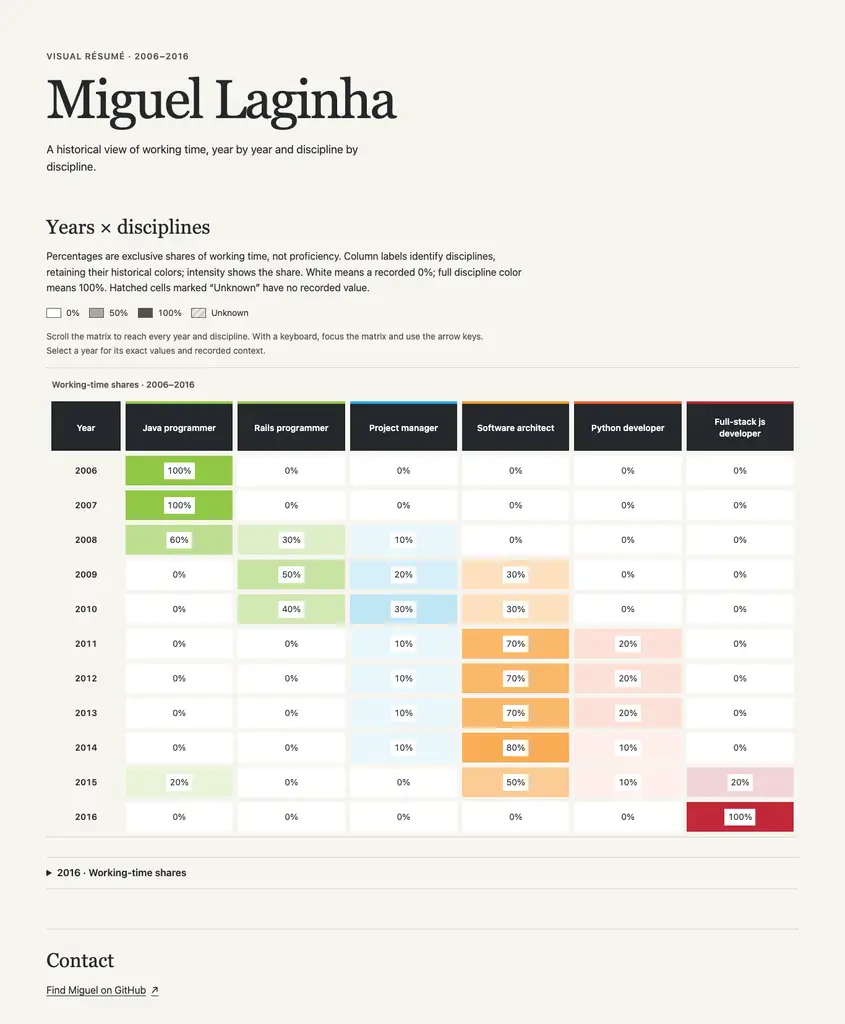
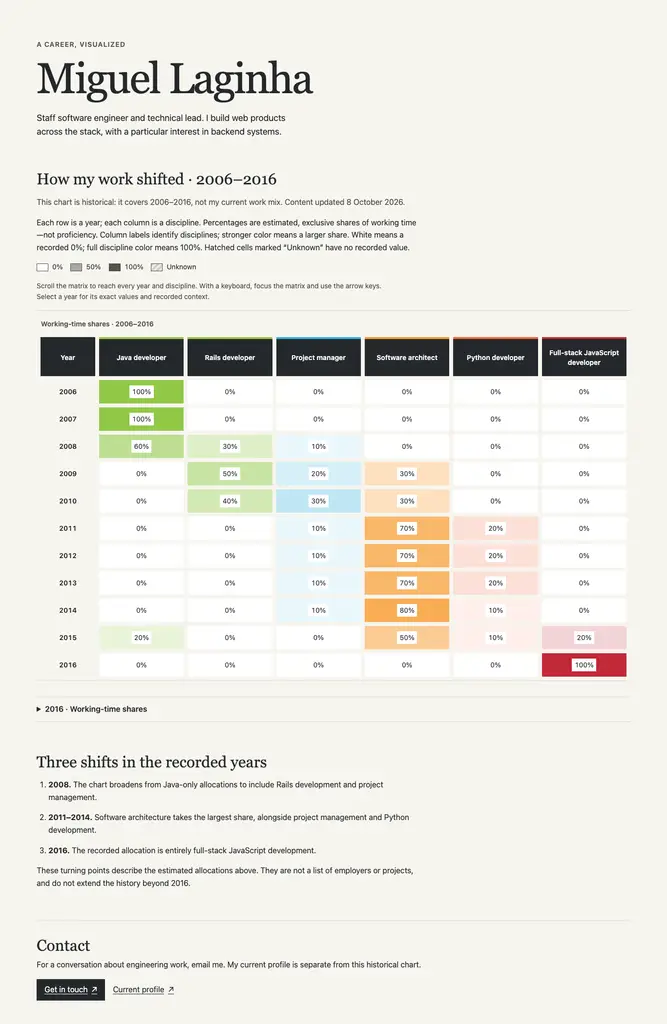
Refresh owner-approved copy and historical career narrative
Refs #4

Changed region(s): [[0.06, 0.0312, 0.9595, 0.875], [0.03, 0.9062, 0.6297, 1.0], [0.8096, 0.75, 0.9595, 0.8125]]

diff --git a/app/index.html b/app/index.html
@@ -3,25 +3,26 @@
     <head>
         <meta charset="utf-8">
         <meta name="viewport" content="width=device-width, initial-scale=1">
-        <title>Miguel Laginha — Resume visualized</title>
-        <meta name="description" content="Miguel Laginha’s visual résumé of recorded working-time shares across disciplines, 2006–2016.">
+        <title>Miguel Laginha — A career, visualized</title>
+        <meta name="description" content="Miguel Laginha, staff software engineer and technical lead. Explore estimated working-time shares across disciplines, 2006–2016.">
         <link rel="stylesheet" href="./styles/main.css">
         <script type="module" src="./scripts/main.ts"></script>
     </head>
     <body>
         <main>
             <header class="intro">
-                <p class="eyebrow">Visual résumé · 2006–2016</p>
+                <p class="eyebrow">A career, visualized</p>
                 <h1>Miguel Laginha</h1>
-                <p class="intro-text">A historical view of working time, year by year and discipline by discipline.</p>
+                <p class="intro-text">Staff software engineer and technical lead. I build web products across the stack, with a particular interest in backend systems.</p>
             </header>
 
             <section aria-labelledby="matrix-heading">
-                <h2 id="matrix-heading">Years × disciplines</h2>
+                <h2 id="matrix-heading">How my work shifted · 2006–2016</h2>
+                <p class="coverage-note">This chart is historical: it covers 2006–2016, not my current work mix. Content updated <time datetime="2026-10-08">8 October 2026</time>.</p>
                 <div class="legend">
                     <p id="legend">
-                        Percentages are exclusive shares of working time, not proficiency.
-                        Column labels identify disciplines, retaining their historical colors; intensity shows the share.
+                        Each row is a year; each column is a discipline. Percentages are estimated, exclusive shares of working time—not proficiency.
+                        Column labels identify disciplines; stronger color means a larger share.
                         White means a recorded 0%; full discipline color means 100%.
                         Hatched cells marked “Unknown” have no recorded value.
                     </p>
@@ -47,9 +48,23 @@
                 </details>
             </section>
 
+            <section class="turning-points" aria-labelledby="turning-points-heading">
+                <h2 id="turning-points-heading">Three shifts in the recorded years</h2>
+                <ol>
+                    <li><strong>2008.</strong> The chart broadens from Java-only allocations to include Rails development and project management.</li>
+                    <li><strong>2011–2014.</strong> Software architecture takes the largest share, alongside project management and Python development.</li>
+                    <li><strong>2016.</strong> The recorded allocation is entirely full-stack JavaScript development.</li>
+                </ol>
+                <p>These turning points describe the estimated allocations above. They are not a list of employers or projects, and do not extend the history beyond 2016.</p>
+            </section>
+
             <footer class="contact" aria-labelledby="contact-heading">
                 <h2 id="contact-heading">Contact</h2>
-                <a href="https://github.com/brecke">Find Miguel on GitHub <span aria-hidden="true">↗</span></a>
+                <p>For a conversation about engineering work, email me. My current profile is separate from this historical chart.</p>
+                <p class="contact-actions">
+                    <a class="primary-contact" href="mailto:me@miguellaginha.com">Get in touch <span aria-hidden="true">↗</span></a>
+                    <a href="https://miguellaginha.com/">Current profile <span aria-hidden="true">↗</span></a>
+                </p>
             </footer>
         </main>
     </body>

diff --git a/app/scripts/main.ts b/app/scripts/main.ts
@@ -94,7 +94,7 @@ function syncExpanded() {
 function selectYear(record: (typeof careerData.years)[number]) {
     selectedYear = record.year;
     detailHeading.textContent = `${record.year} · Working-time shares`;
-    detailContext.textContent = `Record status: ${record.complete ? 'complete' : 'partial'}. Percentages are exclusive shares of working time, not proficiency. Recorded coverage: ${careerData.coverage.startYear}–${careerData.coverage.endYear}.`;
+    detailContext.textContent = `Record status: ${record.complete ? 'complete' : 'partial'}. Percentages are estimated, exclusive shares of working time, not proficiency. Historical coverage: ${careerData.coverage.startYear}–${careerData.coverage.endYear}.`;
     detailValues.replaceChildren();
     for (const discipline of careerData.disciplines) {
         const pair = document.createElement('div');

diff --git a/app/styles/main.css b/app/styles/main.css
@@ -77,6 +77,37 @@ p {
     font-size: 1.125rem;
 }
 
+.coverage-note {
+    max-width: 78ch;
+    color: var(--muted);
+}
+
+.turning-points {
+    max-width: 78ch;
+    margin-top: var(--space-4);
+}
+
+.turning-points ol {
+    padding-inline-start: 1.5rem;
+}
+
+.turning-points li {
+    margin-bottom: var(--space-2);
+}
+
+.contact-actions {
+    display: flex;
+    flex-wrap: wrap;
+    align-items: center;
+    gap: var(--space-2);
+}
+
+.primary-contact {
+    padding-inline: var(--space-2);
+    color: #fff;
+    background: var(--header);
+}
+
 .legend {
     margin-bottom: var(--space-2);
 }

diff --git a/README.md b/README.md
@@ -1,6 +1,6 @@
 # Resume visualized
 
-A visual résumé that maps years against work disciplines. Color intensity shows exclusive shares of working time—not proficiency—making changes in a career visible at a glance.
+A visual résumé that maps years against work disciplines. Color intensity shows **estimated, exclusive shares of working time—not proficiency**. Miguel Laginha's current introduction and contact are separate from the historical **2006–2016** chart.
 
 Created by Miguel Laginha, inspired by David McCandless's [The beauty of data visualization](https://informationisbeautiful.net/2010/the-beauty-of-data-visualization/).
 
@@ -31,7 +31,9 @@ npm run build
 npm run preview
 ```
 
-`build` writes `dist/`; `preview` serves that production output. Relative asset URLs support hosting under a project subpath such as `/resume-visualized/`. Do not publish the source directory or commit generated output. `.github/workflows/ci.yml` installs the pinned runtime/npm and runs installation, type checking, the data regression, and the production build.
+`build` writes `dist/`; `preview` serves that production output. To deploy, publish the **contents of `dist/`** to a static host, retaining `index.html` and `assets/` together. Relative asset URLs support a project subpath such as `/resume-visualized/`; verify HTML, CSS, JavaScript and the rendered matrix at the actual public URL. Do not publish source files or commit generated output. The public host/URL and deployment automation are not configured yet; [release #5](https://github.com/brecke/resume-visualized/issues/5) tracks that decision.
+
+`.github/workflows/ci.yml` installs the pinned runtime/npm and runs installation, type checking, the data regression, and the production build. Remote CI has not been exercised.
 
 ## Career data
 
@@ -44,7 +46,7 @@ Edit **`app/career.json`**, the single source of career facts:
 - Complete years have no unknown values and total **100%**. Incomplete years may contain unknown values or partial totals, but their known shares cannot exceed 100%. Validation allows a small floating-point tolerance when comparing totals.
 - Every year in declared coverage needs a record. Represent a wholly unknown year explicitly as incomplete with null allocations; do not silently skip gaps or invent zeros.
 
-The owner confirmed exclusive working-time shares and corrected **2015 Software architect from 70% to 50%** (20 percentage points), retaining the other allocations. Its total is now 100%. No other career values were changed.
+The owner confirmed that these are **estimates** of exclusive working-time shares and corrected **2015 Software architect from 70% to 50%** (20 percentage points), retaining the other allocations. Its total is now 100%. No other numeric career values were changed. Owner-approved display names are Java developer, Rails developer, Project manager, Software architect, Python developer, and Full-stack JavaScript developer; preserve stable IDs when editing labels.
 
 `app/scripts/data.ts` validates imported data before rendering. `app/scripts/test/data.test.ts` uses Node's built-in test runner to cover totals, coverage, missing data, malformed records, and percentage boundaries. Update facts only from owner-supplied information, then run the checks above.
 
@@ -52,17 +54,26 @@ The renderer in `app/scripts/main.ts` provides a caption, linked row/column head
 
 On narrow screens, focus the signposted matrix region and use arrow keys to reach every year and discipline, or scroll by touch. Year labels and column headers remain sticky inside the region; native scroll padding keeps backward keyboard focus clear of the headers. Desktop uses the matrix's full content height rather than a nested vertical scroll cap.
 
-Tab to a year and press Enter/Space, or tap it, to open its exact six values and recorded completeness/coverage context. Activation focuses the native detail summary; Enter/Space on that summary closes it. Fine-pointer hover shows the same information without stealing focus. Only years are buttons—not every cell—and the table remains readable without opening details. Introductory text, metric explanation, and the real GitHub contact remain readable with JavaScript disabled; the matrix itself needs JavaScript. No animation is introduced.
+Tab to a year and press Enter/Space, or tap it, to open its exact six values and recorded completeness/coverage context. Activation focuses the native detail summary; Enter/Space on that summary closes it. Fine-pointer hover shows the same information without stealing focus. Only years are buttons—not every cell—and the table remains readable without opening details. Introduction, metric explanation, historical narrative, update date and email/profile routes remain readable with JavaScript disabled; the matrix itself needs JavaScript. No animation is introduced.
+
+## Biography and copy
+
+Edit **`app/index.html`** for the current introduction, chart instructions, historical turning points, contact/profile routes, and fixed `<time>` content-update date. Selected-year metric context is in `app/scripts/main.ts`. Keep historical coverage and the noscript message aligned with `career.json`; a current biography does not create newer allocations.
+
+The introduction and contact were taken from Miguel's [published current profile](https://miguellaginha.com/) and explicitly owner-approved. The primary route is `mailto:me@miguellaginha.com`; the secondary link is a real current profile, not a résumé PDF. The three turning points describe only existing records: diversification in 2008, architecture's largest share in 2011–2014, and the full-stack JavaScript allocation in 2016. They do not invent employers, projects, outcomes, or later work.
+
+**Content updated: 8 October 2026.** This is the fixed date of the approved content update, not the end of the chart or a build/deployment timestamp. Update it manually when content is reviewed or edited; never regenerate it on every build. Review new biography/contact/label claims with the owner. Run the checks, inspect production copy and interactions, then intentionally refresh `images/desktop.webp` and `images/mobile.webp` when visible content changes.
 
 ## Revamp tracking
 
 - [GitHub epic #1](https://github.com/brecke/resume-visualized/issues/1): canonical task tracking and release criteria.
 - [Foundation #2](https://github.com/brecke/resume-visualized/issues/2): the implemented data/tooling/renderer cutover; publication status remains in the issue.
 - [Design #3](https://github.com/brecke/resume-visualized/issues/3): editorial layout, accessible responsive matrix, native year details, and reference screenshots.
+- [Copy #4](https://github.com/brecke/resume-visualized/issues/4): approved current biography/contact, estimated metric, honest dates, standardized labels, and record-backed turning points.
 - [ROADMAP.md](ROADMAP.md): historical assessment, direction, and links to design, copy, and release work.
 - [AGENTS.md](AGENTS.md): repository map and AI-assisted contribution rules.
 
-The foundation and responsive design are implemented locally. Owner-reviewed current career narrative, sharing assets, and deployment remain separate phases; publication status belongs in the linked issues.
+Foundation, responsive design, and owner-reviewed copy are implemented locally. Sharing assets and public deployment remain release work; publication status belongs in the linked issues.
 
 ## Verification and attribution
 
@@ -71,5 +82,7 @@ The foundation passed clean-checkout installation, type checking, the determinis
 Computed text contrast was at least **7.32:1** across 107 inspected text elements; an achromatopsia simulation retained readable labels and exact values. The actual Chromium accessibility tree exposed the headings, captioned table, seven column headers, eleven row headers, 66 cells, and eleven year buttons. This checks semantic reading order, not an auditory VoiceOver/NVDA session or a WCAG certification. **200% layout zoom was emulated** using half the laptop's CSS viewport and double device scale, with scrolling and year details still usable.
 
 Final production HTML/CSS/JS loaded at `/resume-visualized/` without CDN requests or observed application runtime errors. A browser-initiated undeclared favicon 404 remains release work. Headed-browser touch automation timed out; trusted touch input succeeded in isolated headless Chromium. Temporary smoke builds, browser profiles, and services were removed. Remote CI and deployment have not been exercised.
+
+The copy change passed typecheck, the existing regression, and production build. Actual **1366 × 900** desktop and **390 × 844** phone checks preserved all 66 allocations and 41 color endpoints, exercised keyboard/touch year details and contact discovery, and loaded the real current-profile destination. A simulated 2040 browser clock left coverage at 2006–2016 and the content-update date at 2026-10-08. Script-disabled copy/contact and actual subpath HTML/CSS/JS passed; no application runtime errors were observed. Computed text contrast remained at least 7.32:1 across 113 inspected elements. This was structured content/interaction verification, not an independent human usability study. The mailto URI matches the owner-published address; no email was sent or inbox delivery tested.
 
 The original MIT author notice is retained in `app/scripts/main.ts`; there is still no root license file. Confirm reuse licensing with the owner before promoting a template. Palette attribution remains in `data.ts` ([Flat UI Colors](http://flatuicolors.com/)). The removed gradient helper originated from [JS Color Gradients](http://aurer.co.uk/project/js-color-gradients/); native CSS now handles the shading. Reference screenshots are repository-owned rather than dependent on the unavailable original remote host.

diff --git a/AGENTS.md b/AGENTS.md
@@ -2,15 +2,15 @@
 
 ## Purpose and scope
 
-This is Miguel Laginha's personal visual résumé: years form rows, work disciplines form columns, and color intensity represents exclusive shares of working time. Preserve the distinctive matrix rather than replacing it with a generic portfolio.
+This is Miguel Laginha's personal visual résumé: years form rows, work disciplines form columns, and color intensity represents estimated, exclusive shares of working time. Preserve the distinctive matrix rather than replacing it with a generic portfolio.
 
-Read [README.md](README.md) for setup and commands, and [ROADMAP.md](ROADMAP.md) for historical context and direction. [GitHub epic #1](https://github.com/brecke/resume-visualized/issues/1) and its native sub-issues are the source of truth for tasks and acceptance criteria. Foundation and responsive design are implemented locally; publication, owner-reviewed copy, and release remain separate work. Implement only the requested issue.
+Read [README.md](README.md) for setup, commands and copy sources, and [ROADMAP.md](ROADMAP.md) for historical context and direction. [GitHub epic #1](https://github.com/brecke/resume-visualized/issues/1) and its native sub-issues are the source of truth for tasks and acceptance criteria. Foundation, responsive design, and owner-reviewed copy are implemented locally; publication and release remain separate work. Implement only the requested issue.
 
 ## Repository map
 
 | Path | Responsibility |
 | --- | --- |
-| `app/index.html` | Static introduction/contact, metric/intensity guide, matrix entry, and native year-detail disclosure shell. |
+| `app/index.html` | Static current biography/contact/profile, metric guide, historical narrative, manual content-update date, matrix entry, and native disclosure shell. |
 | `app/career.json` | Single source of dated career facts, declared coverage, discipline IDs/labels/colors, and completeness. |
 | `app/scripts/data.ts` | Typed data model, runtime validation, and exported `careerData`. |
 | `app/scripts/main.ts` | Semantic table, one button per year, exact selected-year details, native disclosure state/focus, and fine-pointer hover. |
@@ -20,19 +20,22 @@ Read [README.md](README.md) for setup and commands, and [ROADMAP.md](ROADMAP.md)
 | `.nvmrc`, `tsconfig.json`, `vite.config.ts` | Node pin, strict type checking, relative-base Vite build from `app/` to `dist/`. |
 | `.github/workflows/ci.yml` | Pinned-runtime installation, type check, data regression, and production build. |
 | `.gitignore` | Excludes dependencies, generated output, and local workflow artifacts. |
-| `images/desktop.webp`, `images/mobile.webp` | Stable production reference screenshots; update intentionally when the design changes. |
+| `images/desktop.webp`, `images/mobile.webp` | Repository-owned production references; update intentionally when design or visible copy changes. |
 
 Runtime flow: `index.html` → `main.ts` → validated `career.json` → semantic table and native year details; CSS supplies native intensity mapping. Static introduction/contact survive script failure. The regression independently imports the data and validator. There is no canvas, Bower/Grunt pipeline, shared-global script wiring, or second renderer.
 
 ## Data and visualization rules
 
 - Do not invent career history, percentages, achievements, contact details, or data after 2016. Ask for owner facts only when the requested work needs information absent from the repository.
-- Percentages are exclusive working-time shares, not expertise scores. Complete years have no nulls and total 100%; incomplete years have known totals at most 100% and may contain nulls. Keep the validator's floating-point tolerance.
+- Percentages are owner-confirmed estimates of exclusive working-time shares, not expertise scores. Complete years have no nulls and total 100%; incomplete years have known totals at most 100% and may contain nulls. Keep the validator's floating-point tolerance.
 - The owner approved the 2015 architecture correction from 70% to 50%, preserving other values. Do not normalize other allocations or change facts just to pass a check.
 - `coverage` is inclusive and data-driven. Every covered year needs one explicit record with exactly the declared discipline IDs. For unknown years, use incomplete records with nulls—not invented zeros or omitted gaps.
 - Preserve recorded zero versus unknown, chronological order, discipline labels/order, and per-discipline colors. Zero is white; 100% is the exact base color; unknown is labelled and hatched.
 - Trace rendering and validation consumers before changing exports, data shape, coverage, or color calculation. Update both paths together; never introduce a parallel source of career data.
 - Keep exact values readable as text with caption and row/column headers. Color and hover must not be the only ways to read the chart. Keyboard and touch need access to the same information.
+- Current biography/contact are owner-approved from [Miguel's published profile](https://miguellaginha.com/). The primary mailto address is `me@miguellaginha.com`; the secondary route is that real profile, not an invented résumé download. New factual claims and label changes need owner review.
+- Keep the current biography distinct from historical 2006–2016 allocations. Static turning points in `index.html` describe existing records only; do not infer employers, projects, outcomes, or the cause of a change.
+- The `<time>` in `index.html` is a manually maintained content-update date, currently 2026-10-08. Change it only for an actual content review/update, not every build or deployment. It never extends chart coverage.
 
 ## Working and checking
 

diff --git a/ROADMAP.md b/ROADMAP.md
@@ -6,7 +6,7 @@ Make this a distinctive, trustworthy, shareable visual résumé—not a generic 
 
 The first release is Miguel Laginha's personal page. Keep the data easy to replace, but do not turn the project into a résumé builder, hosted service, or component library without an actual need.
 
-Track execution in [GitHub epic #1](https://github.com/brecke/resume-visualized/issues/1). Its native sub-issues are the source of truth for task checklists, progress, and acceptance criteria. This document retains historical assessment and direction; foundation and responsive design are implemented locally, with publication status tracked in #2 and #3.
+Track execution in [GitHub epic #1](https://github.com/brecke/resume-visualized/issues/1). Its native sub-issues are the source of truth for task checklists, progress, and acceptance criteria. This document retains historical assessment and direction; foundation, responsive design, and approved copy are implemented locally, with publication status tracked in #2–#4.
 
 ## Historical baseline — before the foundation cutover
 
@@ -39,6 +39,13 @@ Issue #3 adds a restrained editorial shell, one token-based theme, a compact int
 
 Actual phone, laptop, wide-screen, resize, native touch/keyboard/hover, unknown/partial, script-disabled contact, contrast and achromatopsia checks passed. 200% reflow was checked through CSS viewport/device-scale emulation. Chromium's actual accessibility tree confirmed semantic reading order; no auditory screen-reader session or accessibility certification is claimed. Stable references are in `images/desktop.webp` and `images/mobile.webp`. Career facts were unchanged.
 
+## Copy and career narrative implementation
+
+Issue #4 separates the current owner-approved staff-engineer introduction from historical 2006–2016 allocations. Biography and email/current-profile routes are sourced from [Miguel's published profile](https://miguellaginha.com/); the owner confirmed estimated working-time shares and standardized discipline display names. Three turning points describe only existing records, without invented employers, projects or later work. The fixed content-update date is 2026-10-08, not a build timestamp.
+
+Typecheck, the existing data regression and production build passed. Actual desktop/phone production checks exercised identity/metric/coverage/contact discovery, keyboard/touch details, unchanged numeric allocations, script-disabled content, a future clock and the real current-profile destination. Updated references remain in `images/`. This is structured content/interaction verification, not an independent human study; no email was sent. Public deployment and remote CI remain untested.
+
+
 
 ## Recommended technical direction
 
@@ -64,12 +71,10 @@ Phases 1–4 define the first release. Phase 5 is optional and does not block pu
 
 ## Owner input needed before publication
 
-The metric and 2015 correction are resolved. Remaining publication decisions:
+The metric, estimate wording, 2015 correction, current introduction, email/profile routes, display names and historical turning points are resolved. Current copy explicitly covers 2006–2016 only; later allocations require new owner-supplied records.
 
-1. Should the public release retain the existing historical period, or include owner-verified data since 2016?
-2. What current introduction, career highlights, contact destination, and résumé/profile link may be published?
-3. What public URL/hosting account and reuse license should the project use?
+The public URL/hosting account and reuse-license decision remain for #5. Do not infer those decisions from a successful local preview.
 
 ## Next
 
-Publish the verified foundation and design through the owner-approved contribution path, tracked in #2 and #3. Next is owner-reviewed copy and career narrative (#4), followed by production sharing and hosting (#5). Keep the recognizable matrix; do not turn the remaining revamp into another framework migration.
+Publish the verified foundation, design and copy through the owner-approved contribution path, tracked in #2–#4, then complete production sharing and hosting (#5). Keep the recognizable matrix; do not turn release work into another framework migration.
